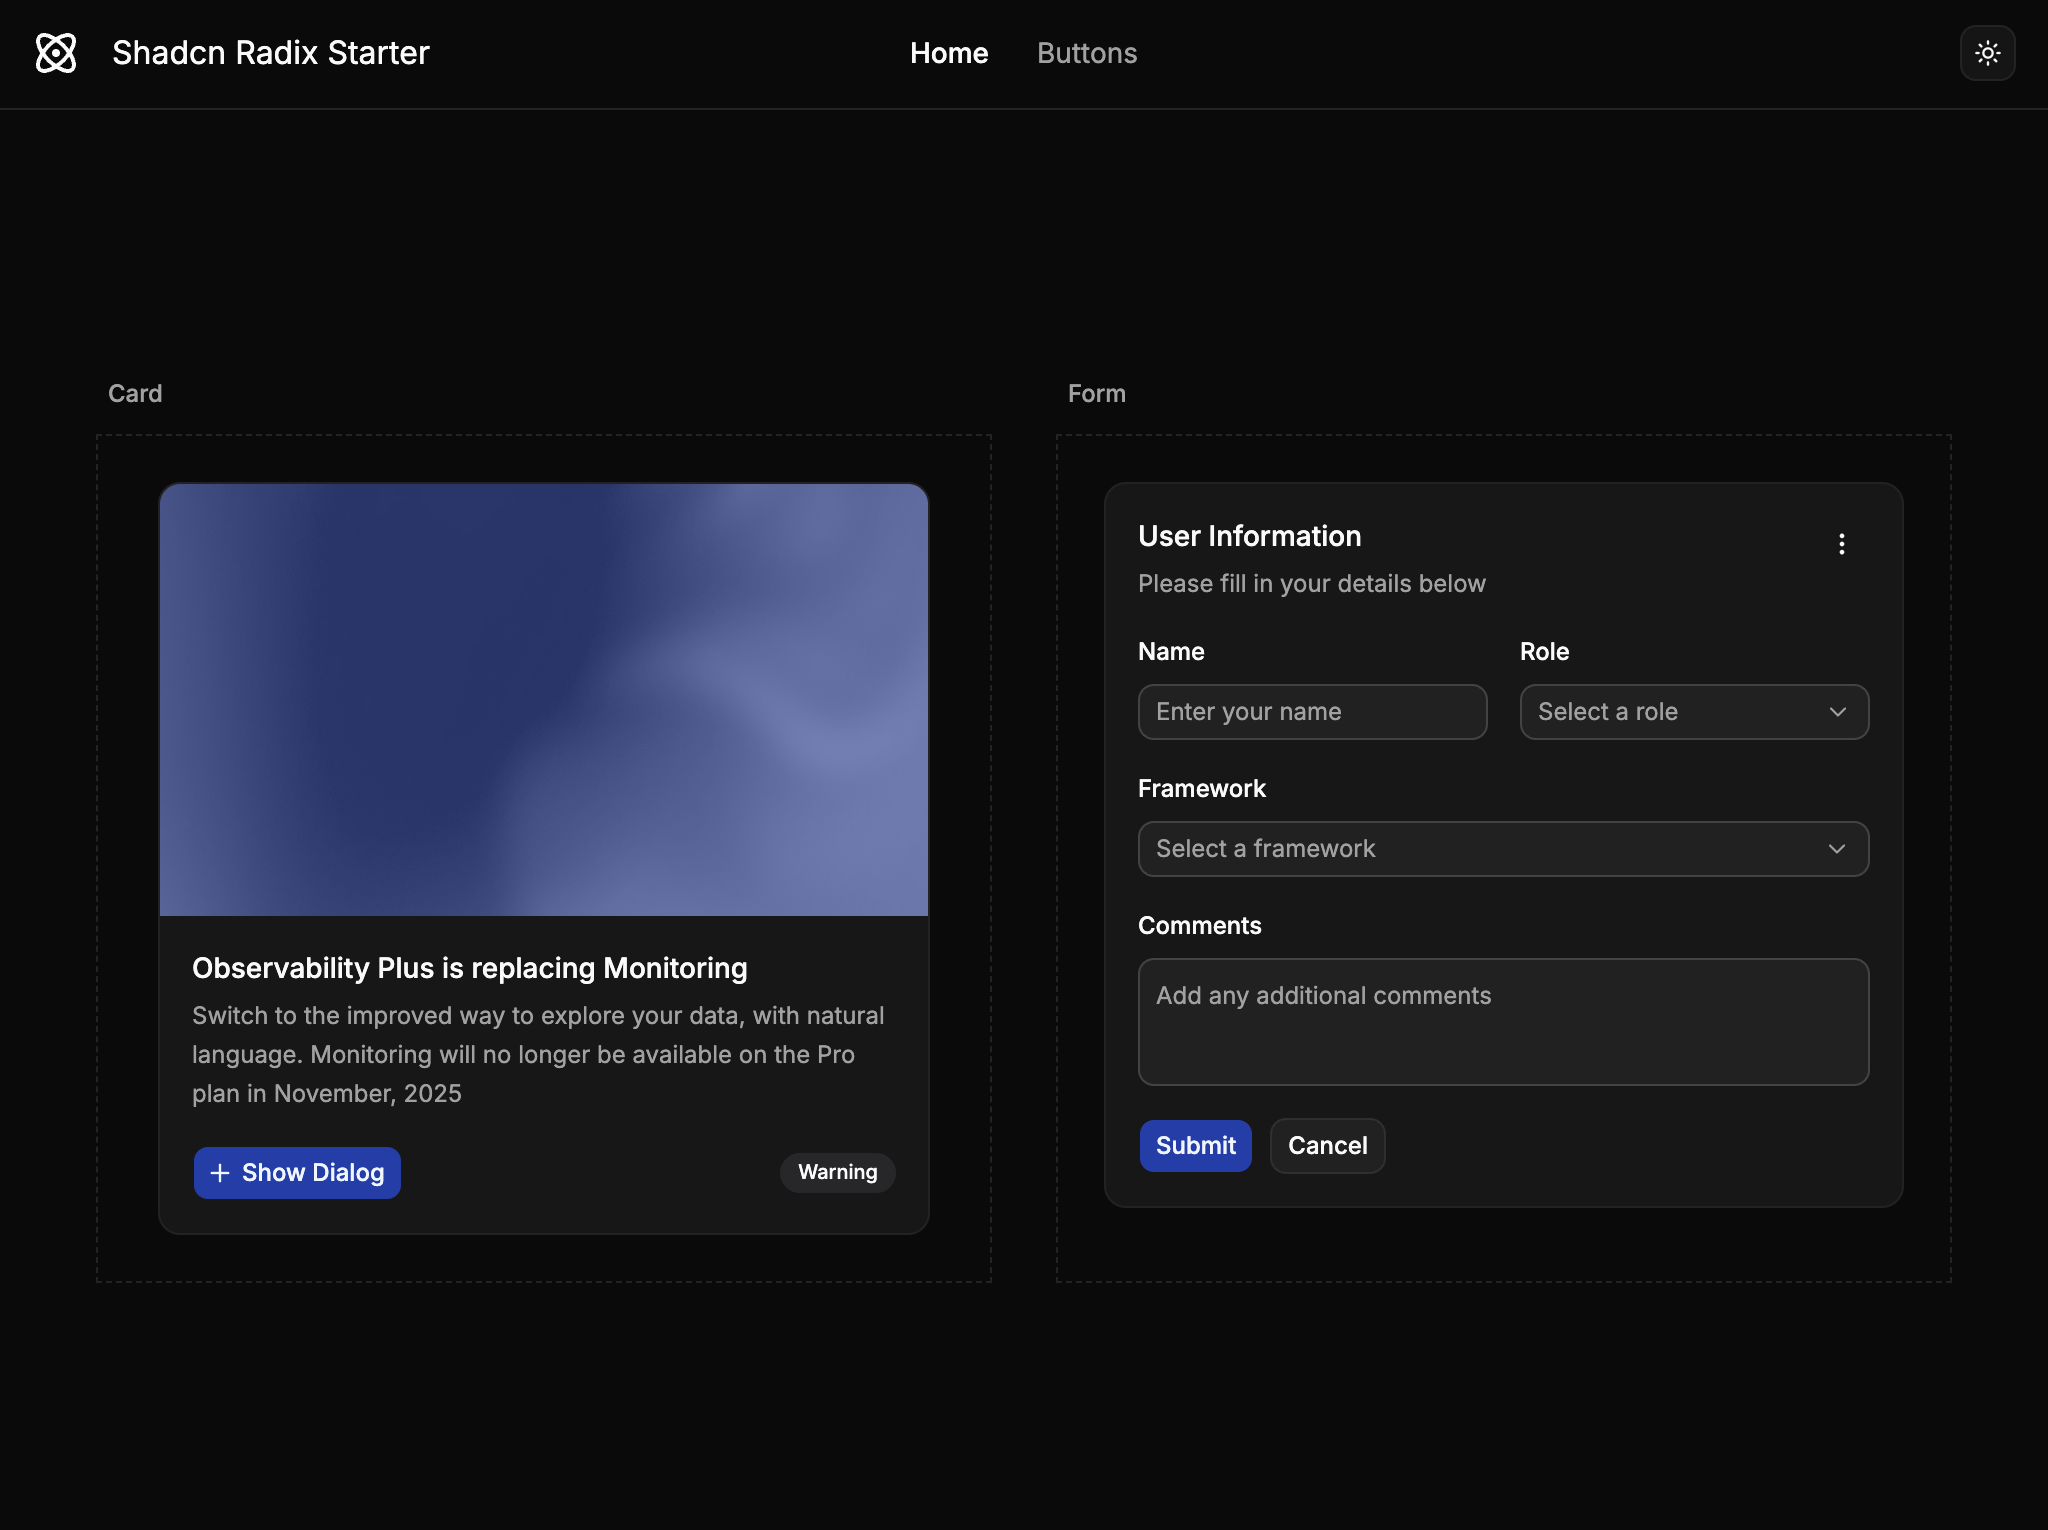
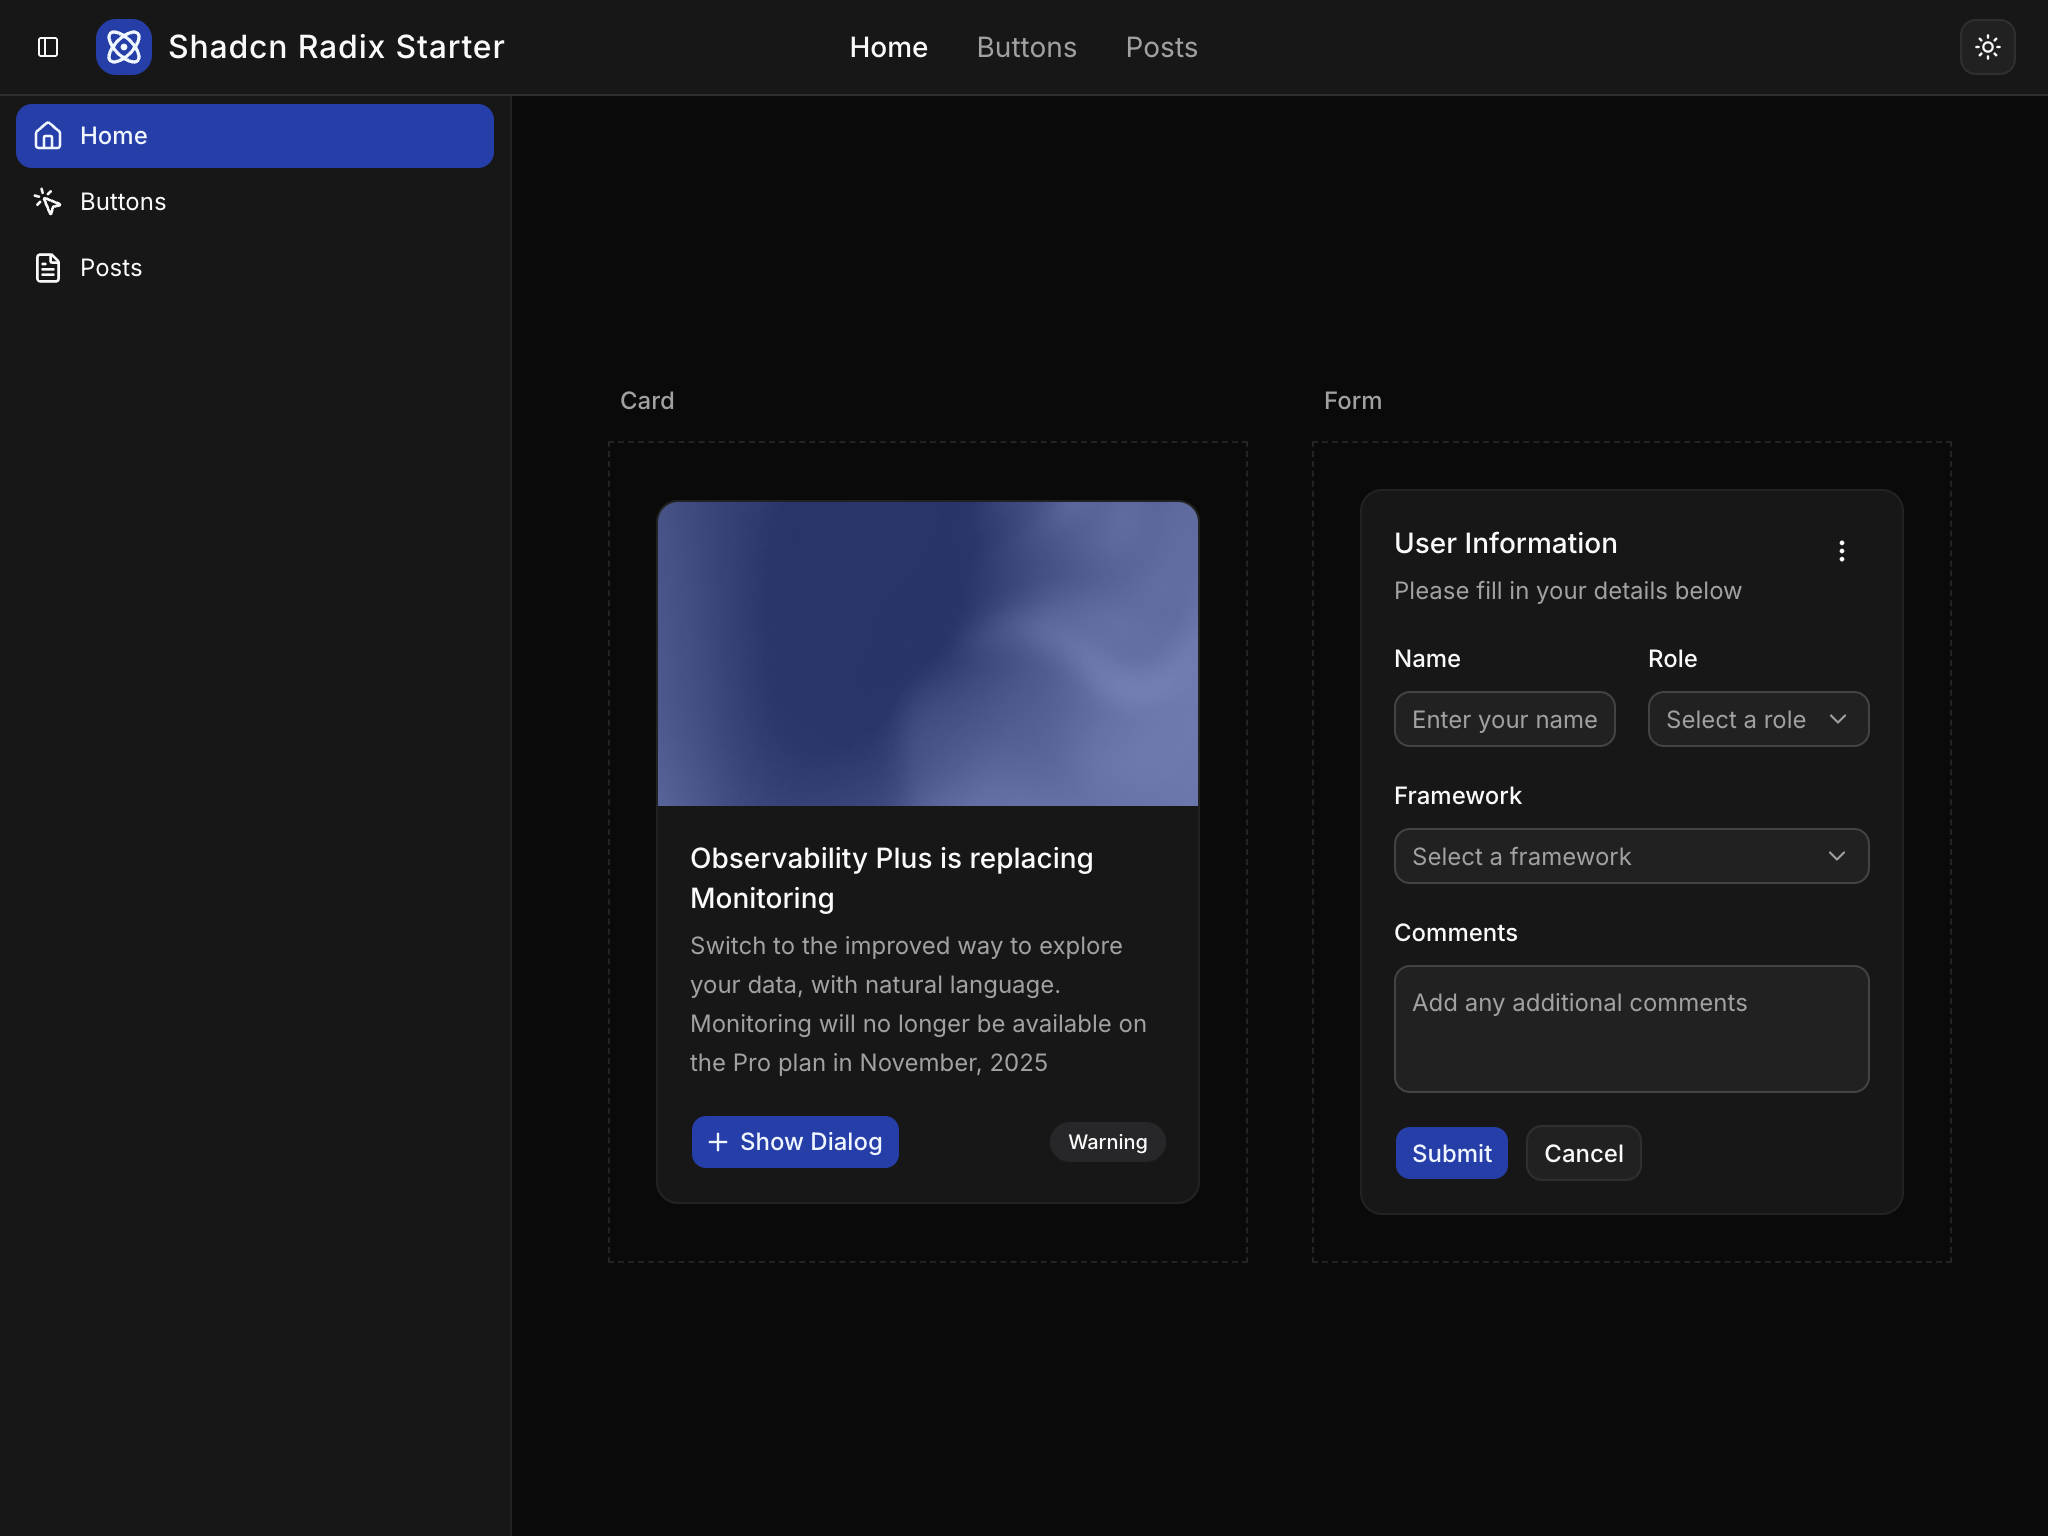
add sidebar

diff --git a/src/app/RootLayout.tsx b/src/app/RootLayout.tsx
@@ -1,28 +1,44 @@
 import { Outlet } from 'react-router';
 
 import { AppHeader } from '../components/AppHeader/AppHeader';
+import { AppSidebar } from '../components/AppSidebar/AppSidebar';
+import { SidebarInset, SidebarProvider } from '../components/ui/sidebar';
 
 /**
  * Root layout component that wraps the entire application.
  * - The application takes up the full height of the viewport.
  * - The app header is fixed height.
- * - The main content area takes up the remaining space and is scrollable.
- * - The routes are rendered in the main content area.
+ * - The area below the header takes up the remaining space.
+ * - It is divided into
+ *   - a sidebar on the left
+ *   - the main content area on the right which is scrollable
  *
- * |-------------------|
- * |     AppHeader     |
- * |-------------------|
- * | Main Content Area |
- * |     <Outlet>      |
- * |-------------------|
+ * ┌─────────────────────────────┐
+ * │          AppHeader          │
+ * ├─────────────────────────────┤
+ * │ Sidebar │ Main Content Area │
+ * │         │     <Outlet>      │
+ * └─────────────────────────────┘
  */
 export function RootLayout() {
+  // `header-height` is used to size the header and set the top of the sidebar
   return (
-    <div className="flex flex-col h-screen relative">
-      <AppHeader />
-      <main className="flex-1 min-h-0 overflow-x-hidden overflow-y-auto flex flex-col">
-        <Outlet />
-      </main>
+    <div className="[--header-height:calc(--spacing(12))]">
+      <SidebarProvider className="flex flex-col h-svh">
+        {/* App Header - Full width above everything */}
+        <AppHeader />
+
+        {/* Content below the header */}
+        <div className="flex flex-1 min-h-0">
+          {/* Sidebar - Full height on the left  */}
+          <AppSidebar />
+
+          {/* Main Content Area - Full height on the right and scrollable */}
+          <SidebarInset className="overflow-x-hidden overflow-y-auto">
+            <Outlet />
+          </SidebarInset>
+        </div>
+      </SidebarProvider>
     </div>
   );
 }

diff --git a/src/components/AppHeader/AppHeader.tsx b/src/components/AppHeader/AppHeader.tsx
@@ -3,21 +3,30 @@ import { AtomIcon } from 'lucide-react';
 import { ModeToggle } from './ModeToggle';
 import { Navigation } from './Navigation';
 import { siteConfig } from '../../config/SiteConfig';
+import { SidebarTrigger } from '../ui/sidebar';
 
 export function AppHeader() {
+  // `header-height` is set in the RootLayout
   return (
-    <header className="grid grid-cols-[1fr_auto_1fr] h-14 px-4 border-b">
+    <header className="grid grid-cols-[1fr_auto_1fr] items-center px-4 h-(--header-height) border-b border-border bg-card">
       {/* Left Section */}
-      <div className="flex items-center gap-4">
-        <AtomIcon className="size-6" />
-        <span>{siteConfig.name}</span>
+      <div className="flex items-center gap-3">
+        <SidebarTrigger className="-ml-1" />
+        <div className="flex items-center gap-2">
+          <div className="flex items-center justify-center size-7 rounded-lg bg-primary text-primary-foreground">
+            <AtomIcon className="size-5" />
+          </div>
+          <span className="text-base font-medium tracking-wide">
+            {siteConfig.name}
+          </span>
+        </div>
       </div>
 
       {/* Center Section */}
       <Navigation />
 
       {/* Right Section */}
-      <div className="flex items-center gap-6 justify-end">
+      <div className="flex items-center justify-end">
         <ModeToggle />
       </div>
     </header>

diff --git a/src/components/AppSidebar/AppSidebar.tsx b/src/components/AppSidebar/AppSidebar.tsx
@@ -1,0 +1,44 @@
+import { Link, useLocation } from 'react-router';
+
+import { mainNavItems } from '../../config/RouteConfig';
+import {
+  Sidebar,
+  SidebarContent,
+  SidebarGroup,
+  SidebarGroupContent,
+  SidebarMenu,
+  SidebarMenuButton,
+  SidebarMenuItem,
+} from '../ui/sidebar';
+
+export function AppSidebar() {
+  const location = useLocation();
+
+  // `header-height` is set in the RootLayout
+  return (
+    <Sidebar className="top-(--header-height) h-[calc(100svh-var(--header-height))]!">
+      <SidebarContent>
+        <SidebarGroup>
+          <SidebarGroupContent>
+            <SidebarMenu>
+              {mainNavItems.map(({ path, title, icon: Icon }) => (
+                <SidebarMenuItem key={path}>
+                  <SidebarMenuButton
+                    asChild
+                    isActive={location.pathname === path}
+                    className="data-[active=true]:bg-primary data-[active=true]:text-primary-foreground hover:bg-accent hover:text-foreground"
+                  >
+                    <Link to={path}>
+                      <Icon className="w-5 h-5" />
+                      <span>{title}</span>
+                    </Link>
+                  </SidebarMenuButton>
+                </SidebarMenuItem>
+              ))}
+            </SidebarMenu>
+          </SidebarGroupContent>
+        </SidebarGroup>
+      </SidebarContent>
+    </Sidebar>
+  );
+}

diff --git a/src/components/AppHeader/Navigation.tsx b/src/components/AppHeader/Navigation.tsx
@@ -1,30 +1,27 @@
 import { NavLink } from 'react-router';
 
-import { mainNavItems, RoutePathEnum } from '../../config/RouteConfig';
+import { mainNavItems } from '../../config/RouteConfig';
 import { cn } from '../../utils/cn';
 
 export function Navigation() {
   return (
     <nav className="flex items-center gap-4 text-sm lg:gap-6">
-      {Object.values(RoutePathEnum).map((routePath) => {
-        const navItem = mainNavItems.get(routePath)!;
-        return (
-          <NavLink
-            key={navItem.path}
-            to={navItem.path}
-            className={({ isActive }) =>
-              cn(
-                'transition-colors hover:text-foreground',
-                isActive
-                  ? 'font-medium text-foreground'
-                  : 'text-muted-foreground',
-              )
-            }
-          >
-            {navItem.title}
-          </NavLink>
-        );
-      })}
+      {mainNavItems.map((navItem) => (
+        <NavLink
+          key={navItem.path}
+          to={navItem.path}
+          className={({ isActive }) =>
+            cn(
+              'transition-colors hover:text-foreground',
+              isActive
+                ? 'font-medium text-foreground'
+                : 'text-muted-foreground',
+            )
+          }
+        >
+          {navItem.title}
+        </NavLink>
+      ))}
     </nav>
   );
 }

diff --git a/src/routes.tsx b/src/routes.tsx
@@ -5,24 +5,23 @@ import { NotFoundPage } from './app/routes/not-found/NotFoundPage';
 import { PostsPage } from './app/routes/posts/PostsPage';
 import { mainNavItems } from './config/RouteConfig';
 
+import type { ReactNode } from 'react';
 import type { RouteObject } from 'react-router';
+
+const navElementByPath: Record<string, ReactNode> = {
+  '/': <HomePage />,
+  '/buttons': <ButtonsPage />,
+  '/posts': <PostsPage />,
+};
 
 export const routes: RouteObject[] = [
   {
     element: <RootLayout />,
     children: [
-      {
-        path: '/',
-        element: <HomePage />,
-      },
-      {
-        path: mainNavItems.get('buttons')!.path,
-        element: <ButtonsPage />,
-      },
-      {
-        path: mainNavItems.get('posts')!.path,
-        element: <PostsPage />,
-      },
+      ...mainNavItems.map((item) => ({
+        path: item.path,
+        element: navElementByPath[item.path],
+      })),
     ],
   },
   {

diff --git a/src/config/RouteConfig.ts b/src/config/RouteConfig.ts
@@ -1,18 +1,15 @@
-export const RoutePathEnum = {
-  Home: 'home',
-  Buttons: 'buttons',
-  Posts: 'posts',
-} as const;
+import { Home, MousePointerClick, FileText } from 'lucide-react';
 
-export type RoutePath = (typeof RoutePathEnum)[keyof typeof RoutePathEnum];
+import type { LucideIcon } from 'lucide-react';
 
 export interface NavItem {
   path: string;
   title: string;
+  icon: LucideIcon;
 }
 
-export const mainNavItems = new Map<RoutePath, NavItem>([
-  ['home', { path: '/', title: 'Home' }],
-  ['buttons', { path: '/buttons', title: 'Buttons' }],
-  ['posts', { path: '/posts', title: 'Posts' }],
-]);
+export const mainNavItems: NavItem[] = [
+  { path: '/', title: 'Home', icon: Home },
+  { path: '/buttons', title: 'Buttons', icon: MousePointerClick },
+  { path: '/posts', title: 'Posts', icon: FileText },
+];

diff --git a/src/styles/globals.css b/src/styles/globals.css
@@ -121,7 +121,7 @@
     @apply border-border outline-ring/50;
   }
   body {
-    @apply font-sans bg-background text-foreground;
+    @apply font-sans bg-background text-foreground antialiased;
   }
   html {
     @apply font-sans;
